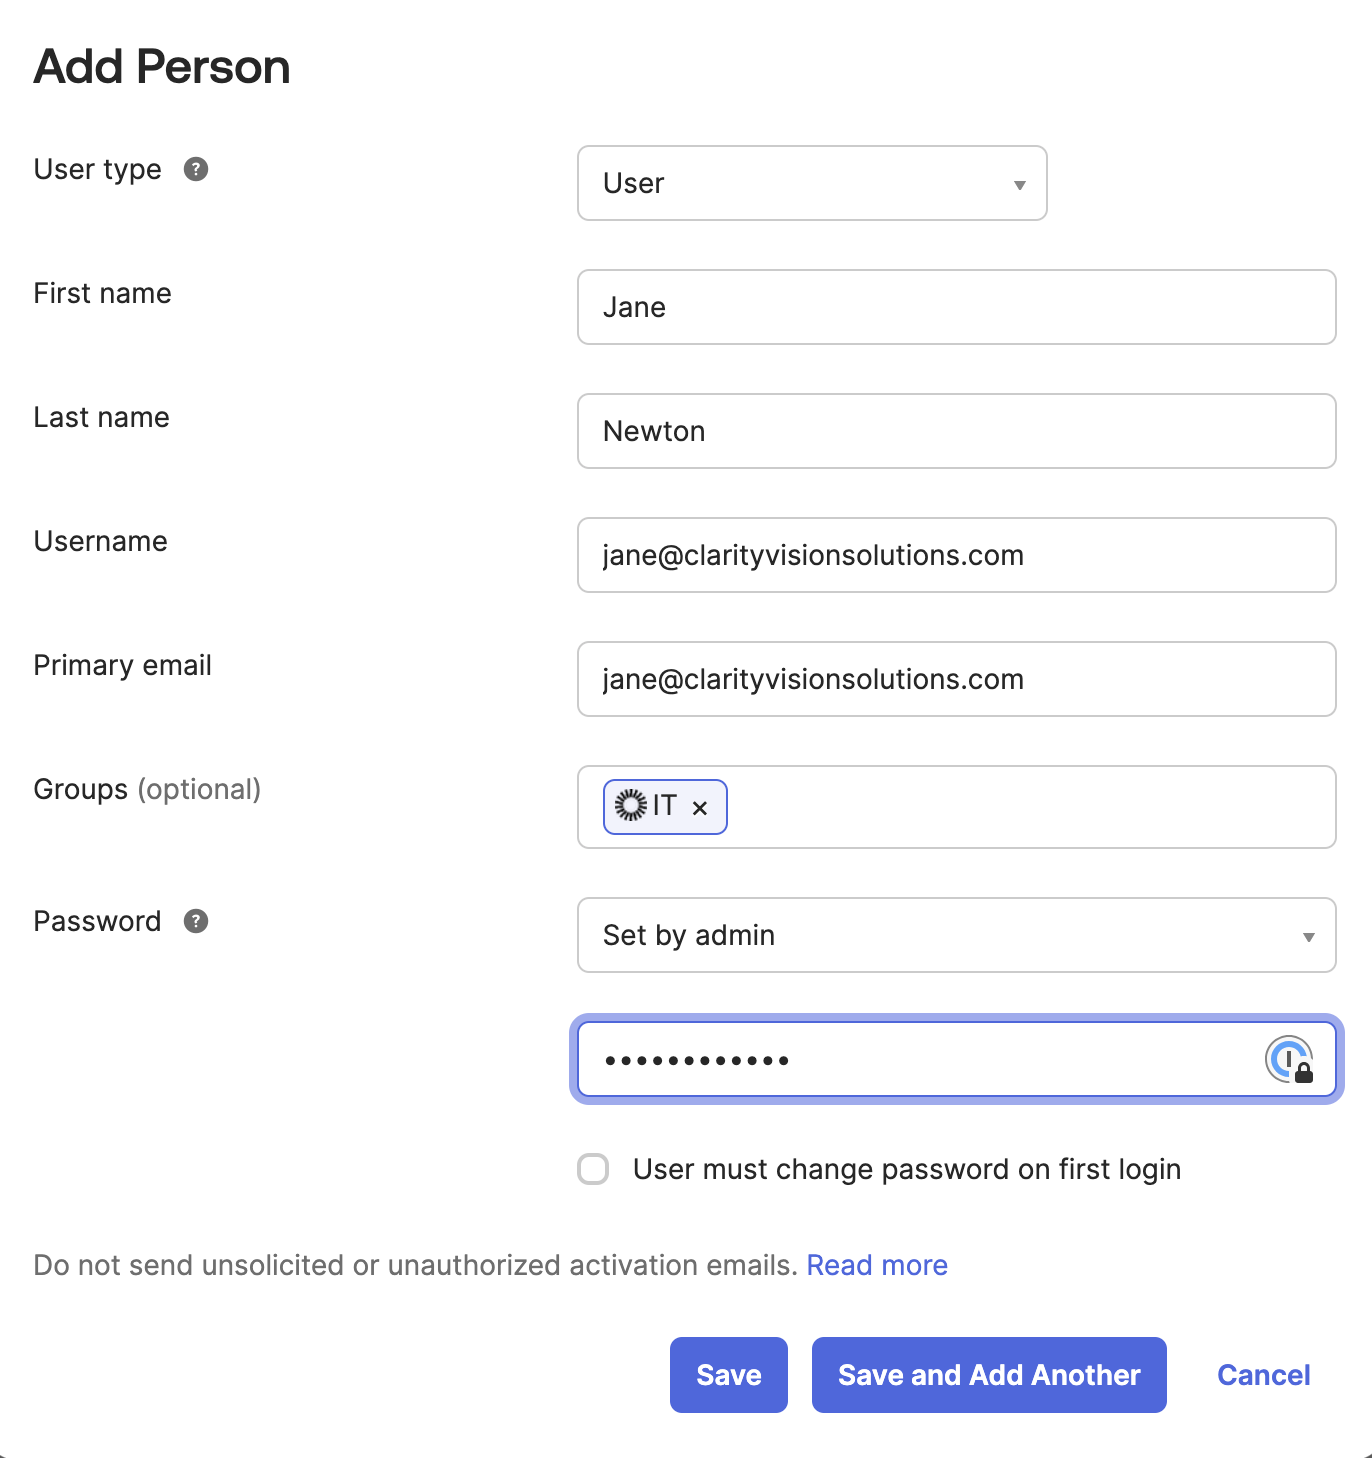
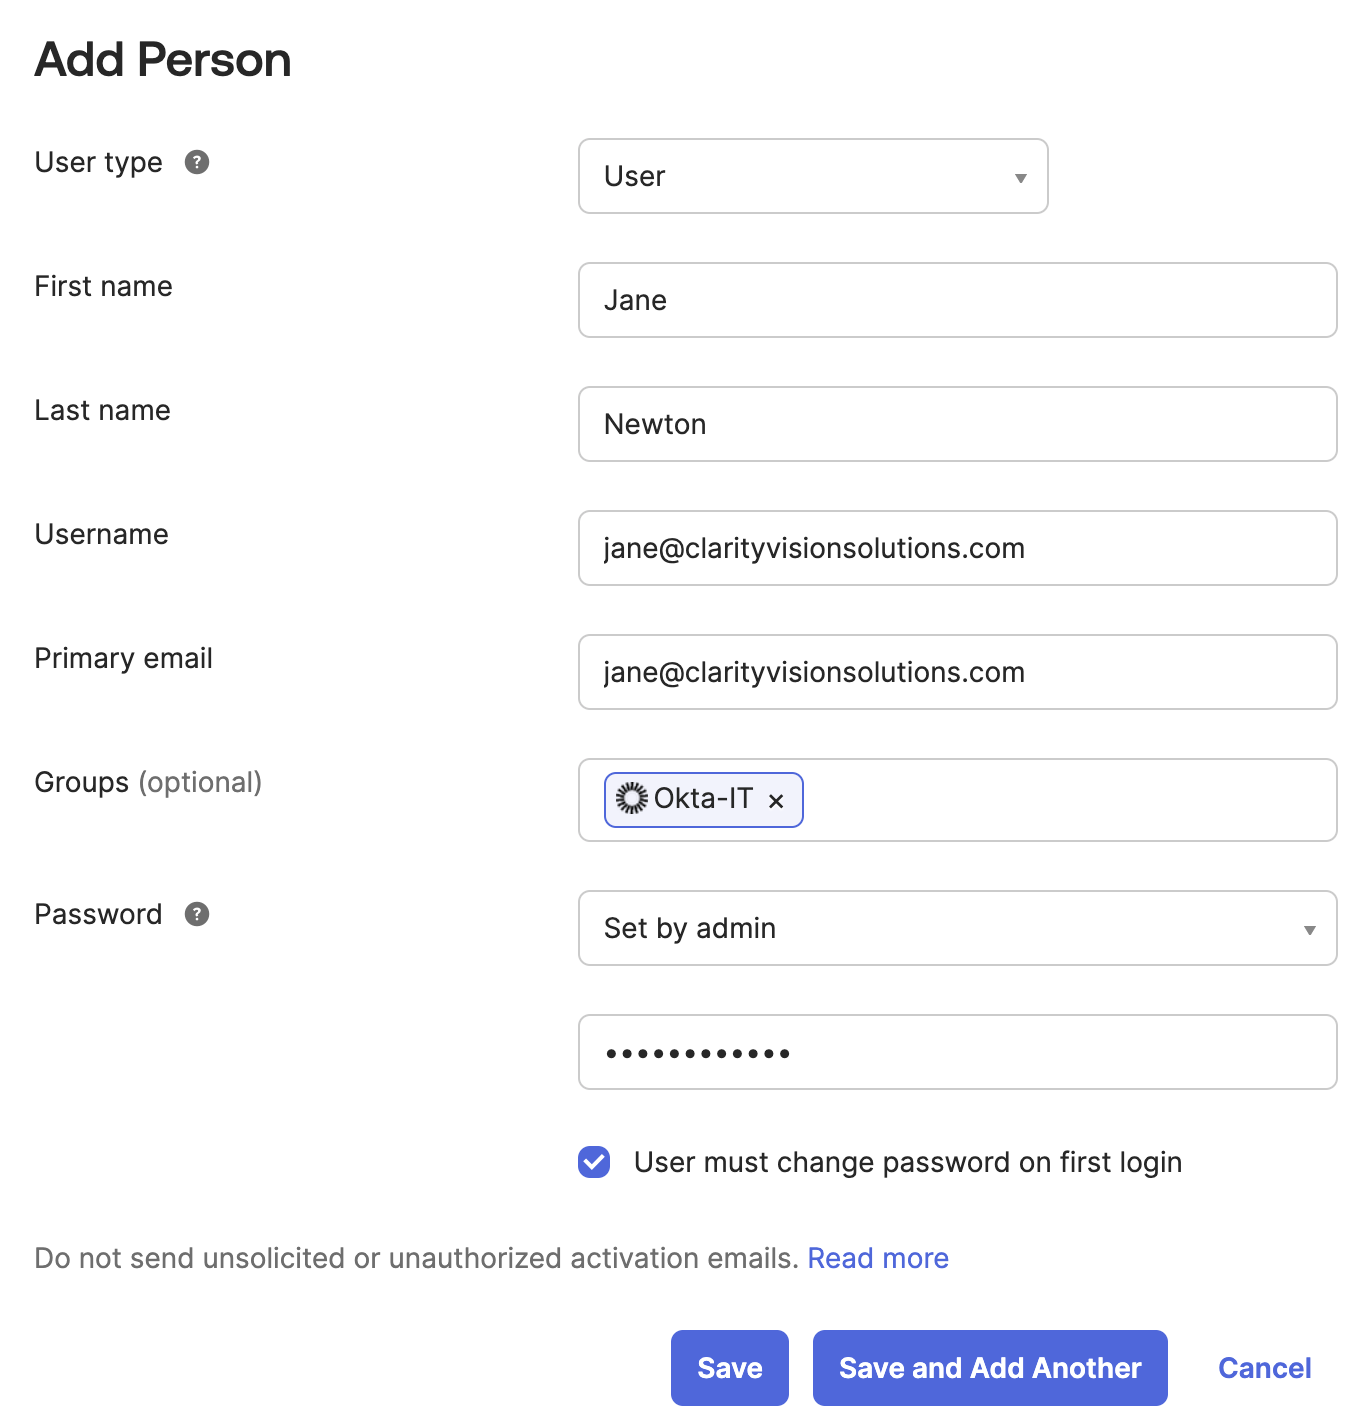
LRDOCS-12686 wordsmith7

diff --git a/docs/courses/latest/en/building-enterprise-websites-with-liferay/module-4-identity-management-and-sso/setting-up-sso.md b/docs/courses/latest/en/building-enterprise-websites-with-liferay/module-4-identity-management-and-sso/setting-up-sso.md
@@ -29,7 +29,7 @@ In your Okta developer account, create a new group called `Okta-IT`. Then create
 
 ![Create a sample user Jane Newton.](./setting-up-sso/images/01.png)
 
-## Okta Configuration
+## Exercise 1: Configuring Okta as an Identity Provider
 
 1. Log in to [Okta Dev](https://developer.okta.com/login/). In the left menu, click on _Applications_ under the applications sub-section. In the new page click _Create App Integration_.
 
@@ -81,7 +81,7 @@ In your Okta developer account, create a new group called `Okta-IT`. Then create
 !!! note
     Make sure to assign yourself and provision your own user account so that you will still be able to log in as the Liferay administrator.
 
-## Exercise 1: Configuring Liferay as a Service Provider
+## Exercise 2: Configuring Liferay as a Service Provider
 
 1. (Prerequisite) The Clarity sample site already comes with an `Okta-IT` user group. If you do not have the sample Clarity site, create a user group called `Okta-IT`. See our documentation about [user groups](https://learn.liferay.com/w/dxp/users-and-permissions/user-groups).
 
@@ -94,7 +94,7 @@ In your Okta developer account, create a new group called `Okta-IT`. Then create
     - Scroll down to the bottom. Input the key password as `learn`.
     - Click *Save*.
 
-``. Leave the default settings under the _Service Provider_ tab.
+1. Leave the default settings under the _Service Provider_ tab.
 
 1. Click the _Identity Provider Connections_ tab. Click *Add Identity Provider* and set the following:
     1. Name: *okta*
@@ -128,6 +128,9 @@ In your Okta developer account, create a new group called `Okta-IT`. Then create
 1. Navigate to _Control Panel_ &rarr; _Users and Organizations_. Verify that Jane Newton's account came into Liferay and that she was automatically assigned to the `Okta-IT` Liferay user group.
 
     ![Jane Newton's account has been created in Liferay.](./setting-up-sso/images/06.png)
+
+!!! note
+    Okta SSO was enabled in this exercise. Feel free to disable it as you continue this Liferay course.
 
 ## Further Reading
 
